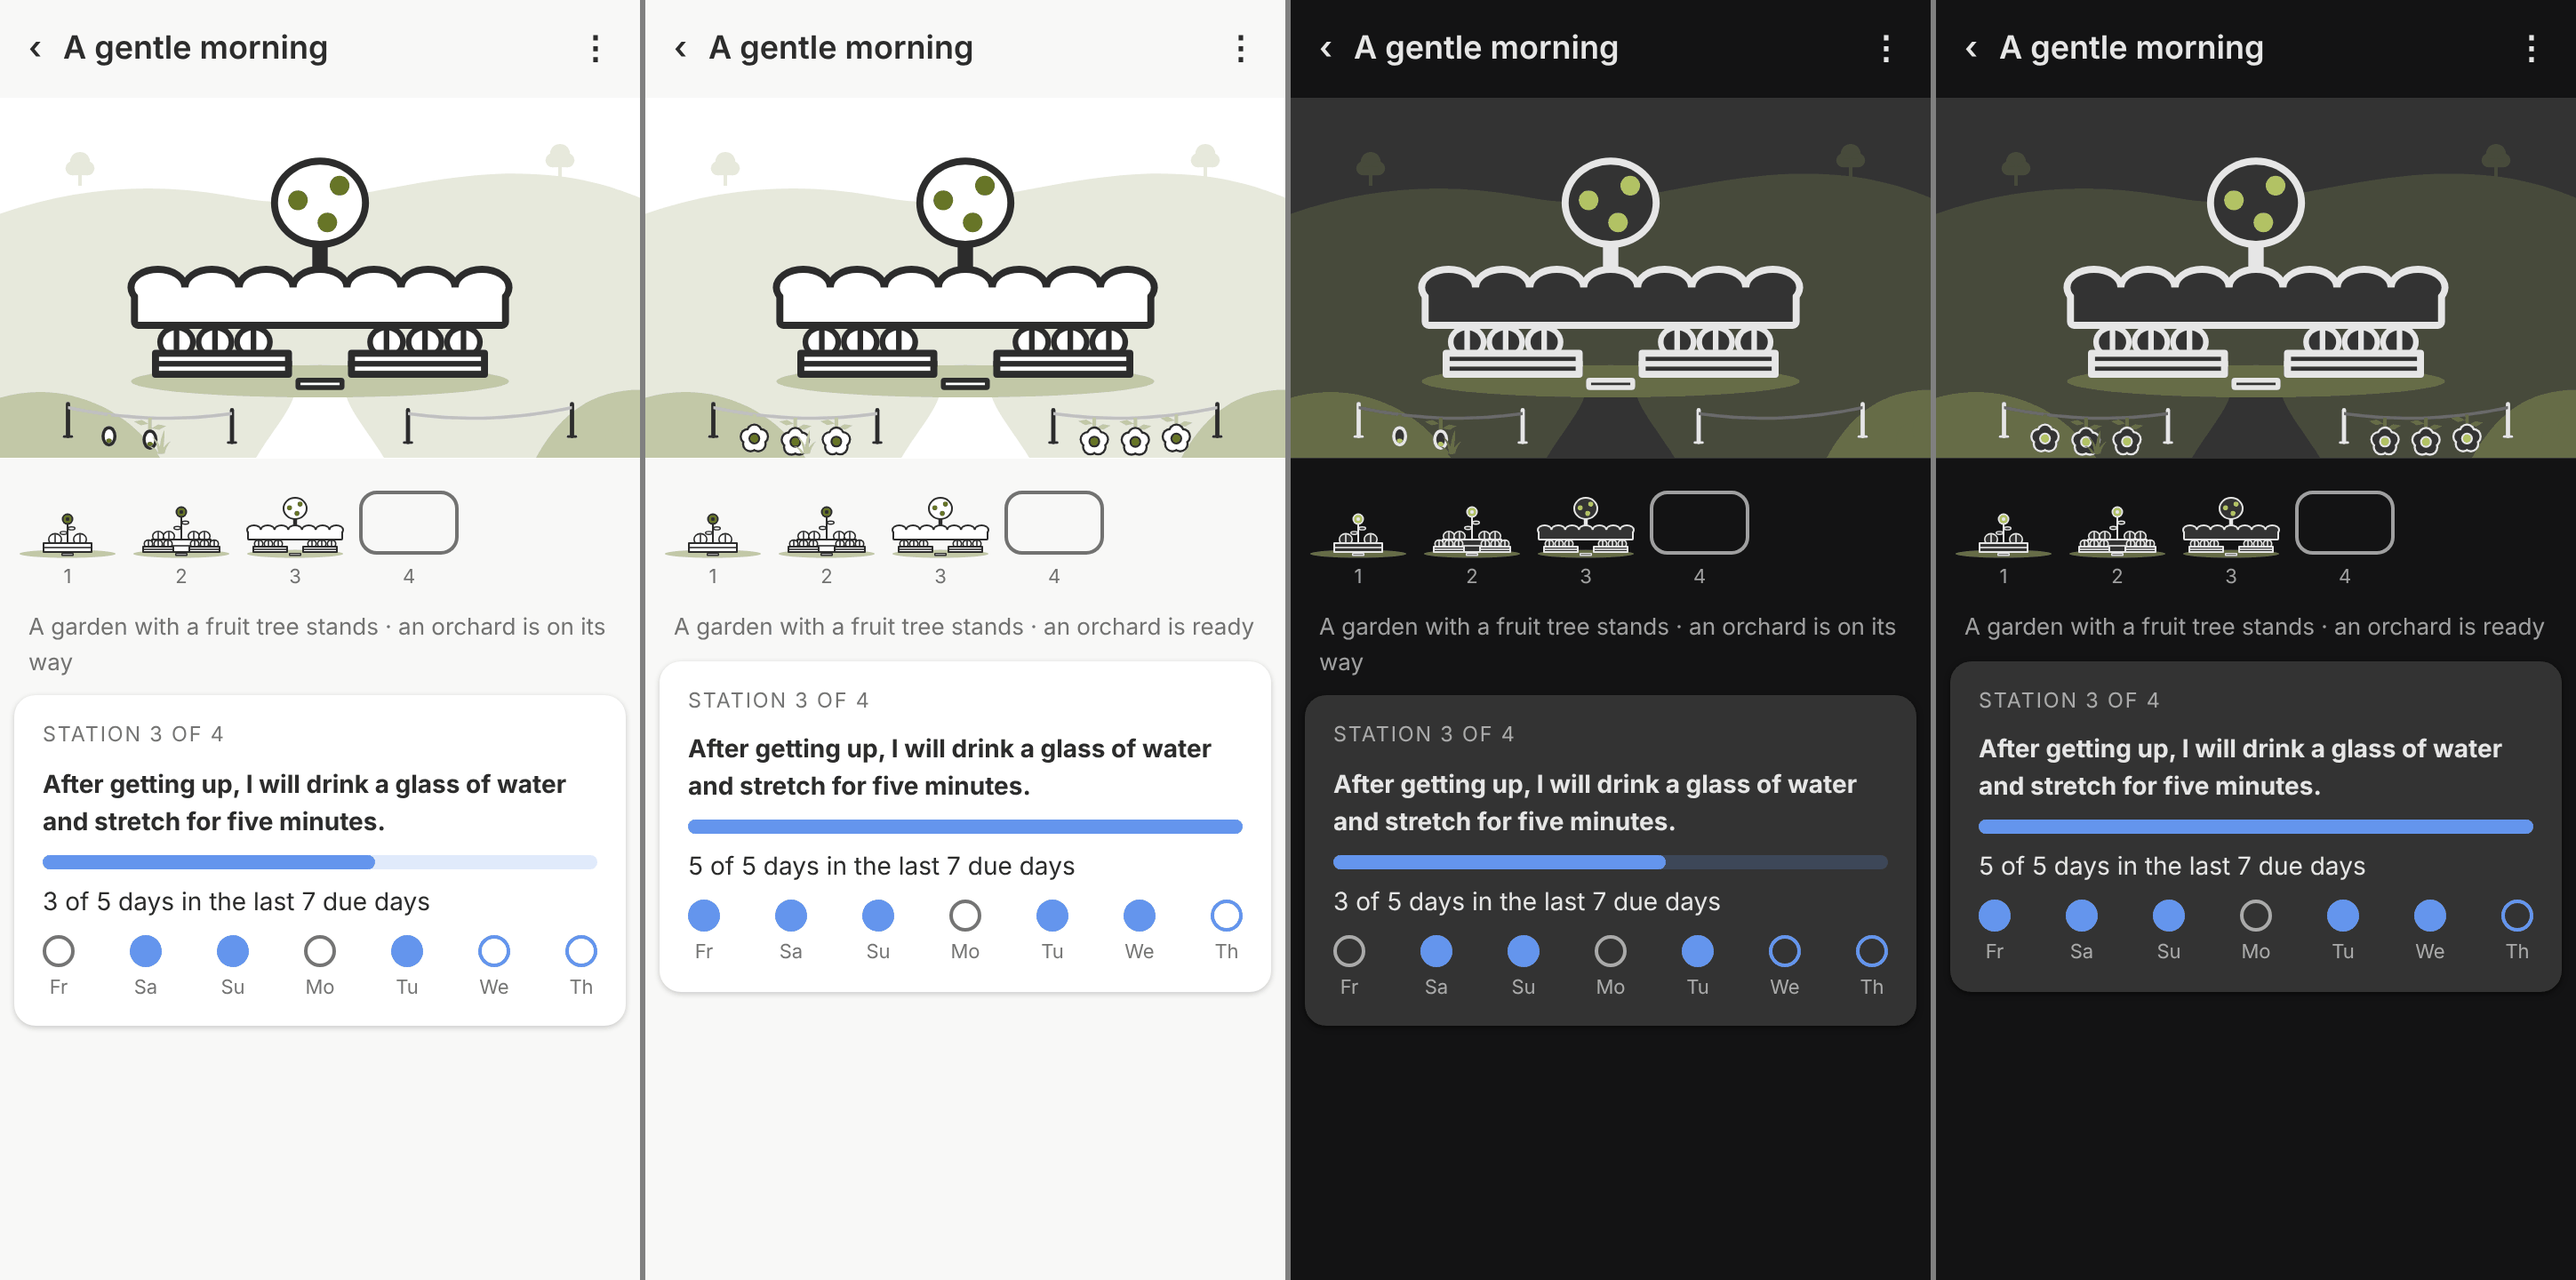
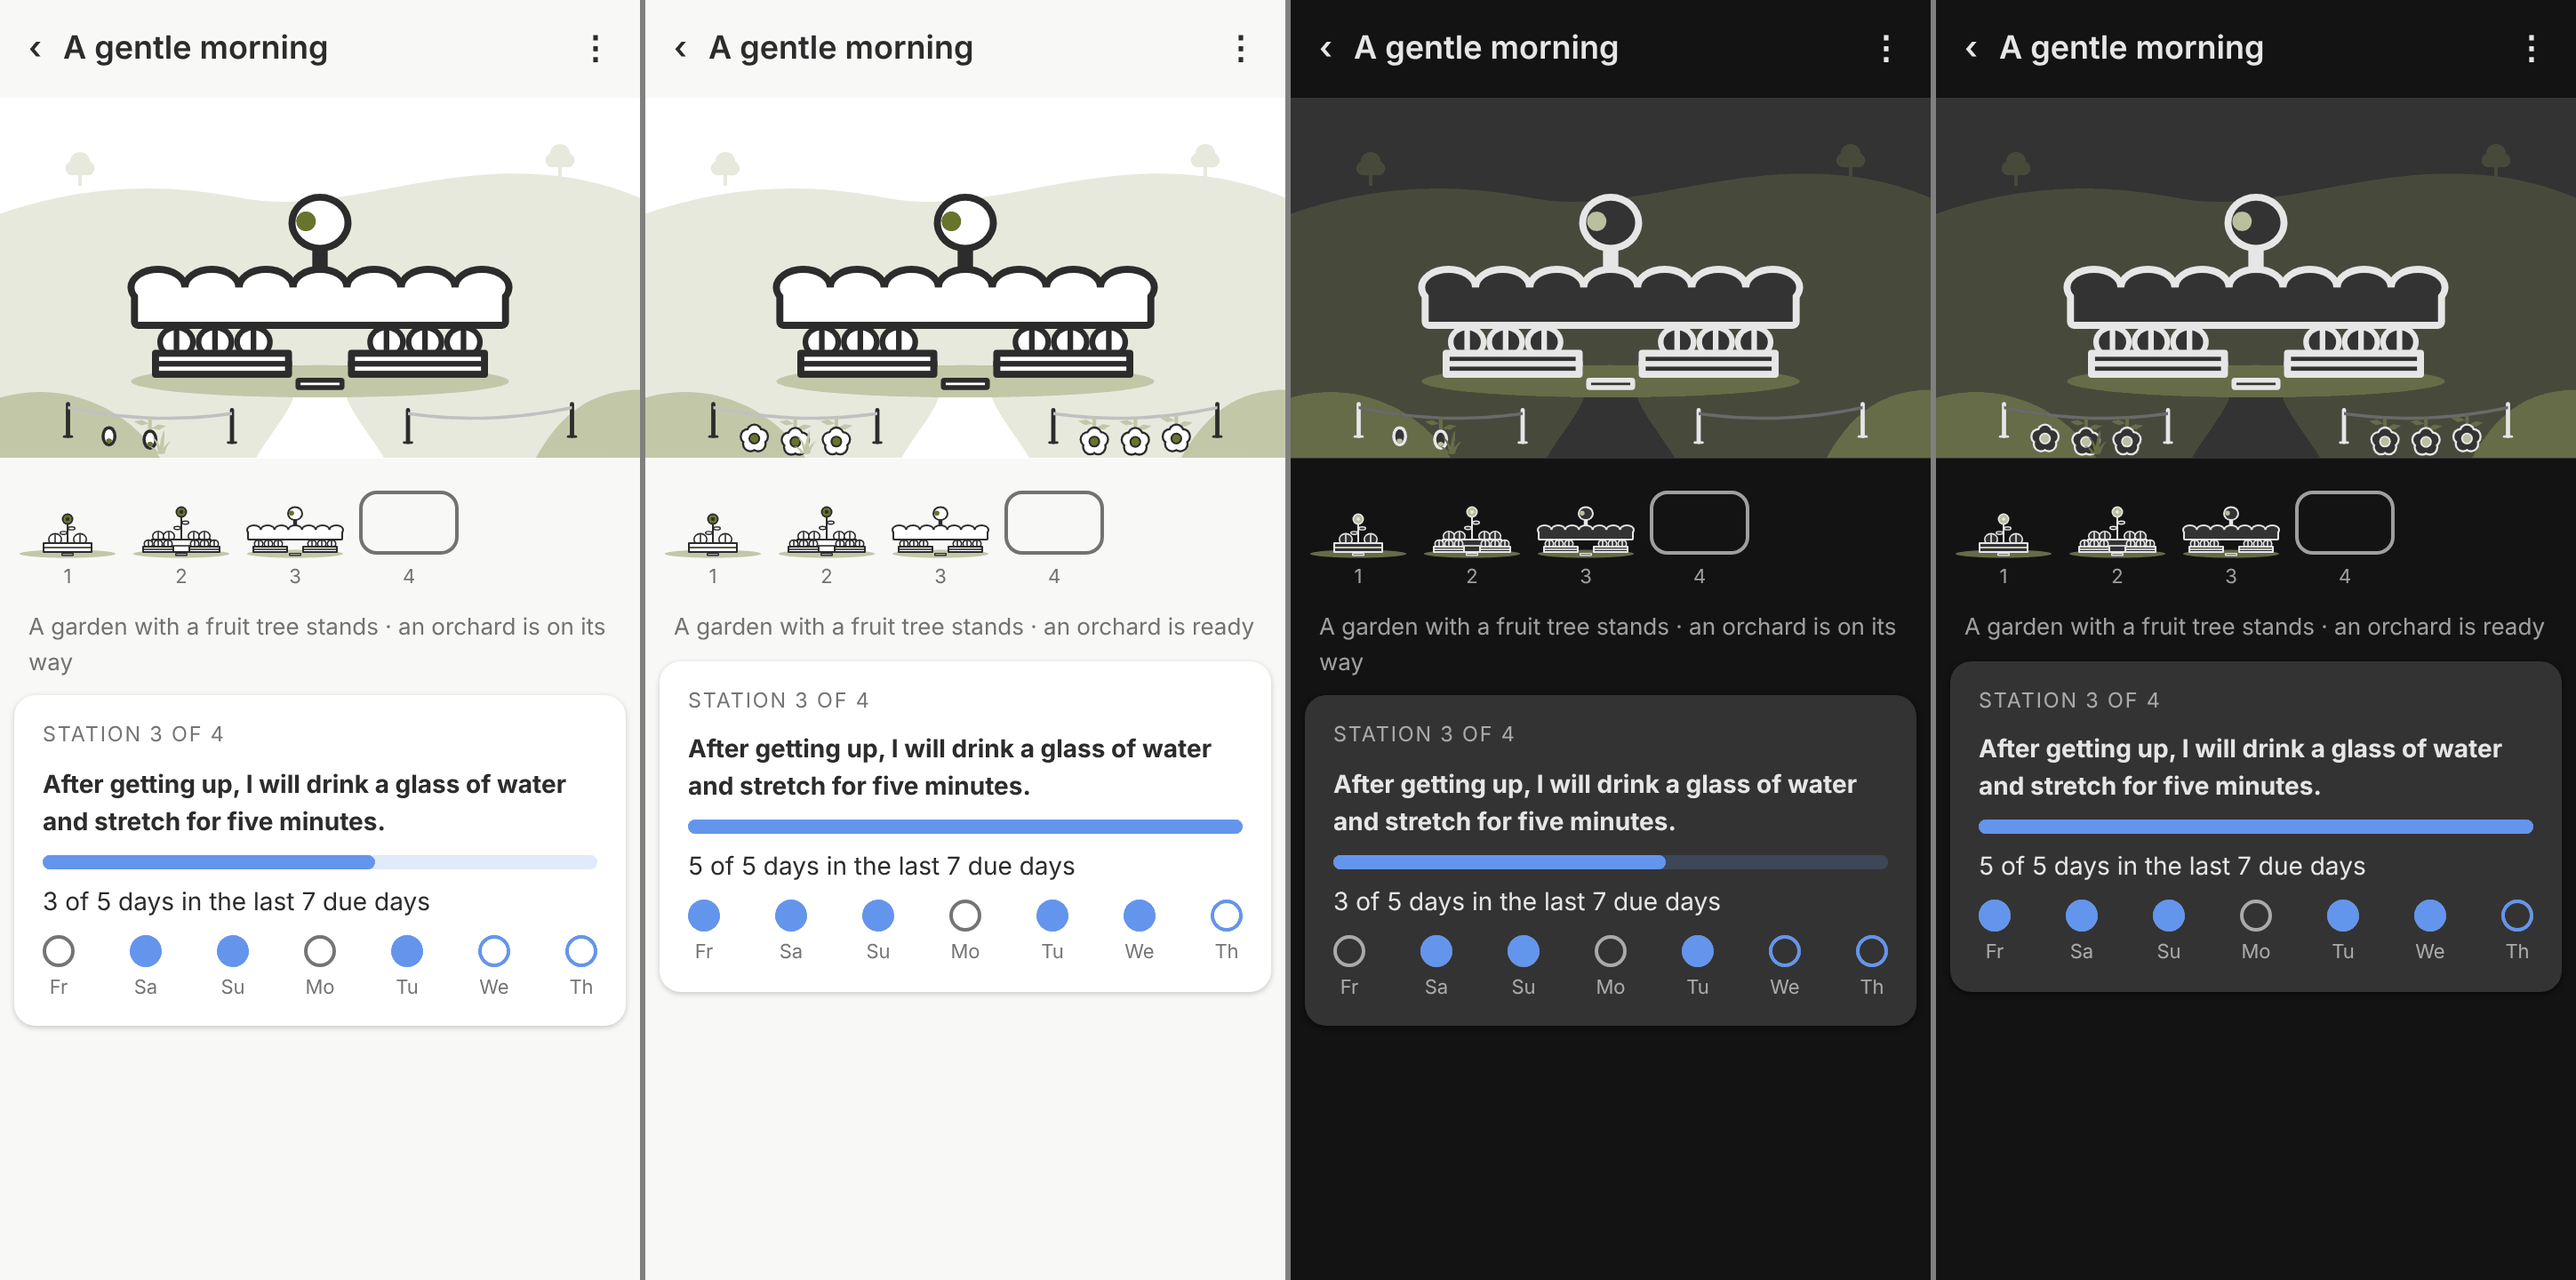
Art: Garden's trees grow with the garden (#135)
At the owner's word, what stands grows on: a tree is young with one
fruit when planted, grown with two a version later and old with three
after that, so the middle tree (planted in version 3) is the largest
in version 5 and each new pair starts young.

Claude-Session: https://claude.ai/code/session_019PsDpCdRYaLb9552fVk121

diff --git a/docs/log.md b/docs/log.md
@@ -2,7 +2,7 @@
 
 ## 2026-11-15
 
-- **Update** (#135, decided by the owner): Garden follows the history rule. The greenhouse is a different technique, so it is parked like the hand pump (rule 8 in [journey design](journey-design.md#builds-and-ladders-the-valley-42), comment on #114); version 4 is an orchard of five fruit trees behind the hedge, version 5 a walled garden: the orchard and beds inside a wall of stones at shoulder height, the trees and plants rising over it, its gate on the threshold stone (titles An orchard / Ein Obstgarten, A walled garden / Ein ummauerter Garten). The measured rules of #136 caught two faults on the way: a plant in the gate covered the threshold stone, and a lower wall made version 5 cover less than 5 % more than the orchard. The generator now also refuses a picture above 4 KB: a first orchard was 4,297 bytes and was written unnoticed ([decision](decisions/ladder-geometry.md)). Checked at 360 × 720 and in the row at 60 × 40, light and dark: a plant inside the gate read as a keyhole and was dropped. Then the owner saw the fruit trees' crowns floating like balls over the hedge and the wall: every tree now stands on a trunk, in a row of five, the trunks ending behind the hedge or wall. The owner then saw the trees jump (one in the middle, one on the right, suddenly five): they now grow from the middle, where the sunflower stood, one in version 3, three in version 4, five in version 5, each keeping its place.
+- **Update** (#135, decided by the owner): Garden follows the history rule. The greenhouse is a different technique, so it is parked like the hand pump (rule 8 in [journey design](journey-design.md#builds-and-ladders-the-valley-42), comment on #114); version 4 is an orchard of five fruit trees behind the hedge, version 5 a walled garden: the orchard and beds inside a wall of stones at shoulder height, the trees and plants rising over it, its gate on the threshold stone (titles An orchard / Ein Obstgarten, A walled garden / Ein ummauerter Garten). The measured rules of #136 caught two faults on the way: a plant in the gate covered the threshold stone, and a lower wall made version 5 cover less than 5 % more than the orchard. The generator now also refuses a picture above 4 KB: a first orchard was 4,297 bytes and was written unnoticed ([decision](decisions/ladder-geometry.md)). Checked at 360 × 720 and in the row at 60 × 40, light and dark: a plant inside the gate read as a keyhole and was dropped. Then the owner saw the fruit trees' crowns floating like balls over the hedge and the wall: every tree now stands on a trunk, in a row of five, the trunks ending behind the hedge or wall. The owner then saw the trees jump (one in the middle, one on the right, suddenly five): they now grow from the middle, where the sunflower stood, one in version 3, three in version 4, five in version 5, each keeping its place; at the owner's word they also grow with the garden: a tree is young with one fruit when planted, grown with two a version later, old with three after that, so the first tree is the largest.
 - **Decision** (owner): ladder pictures are built with a geometry library and measured ([decision](decisions/ladder-geometry.md)). `clipper2-ts` 2.0.1 (BSL-1.0, development only, [dependencies](dependencies.md)) builds outlines by offsetting, the well house's cut-out by subtraction and the stonework clipped to its wall (`scripts/ladder-geometry.mjs`); `scripts/ladder-checks.mjs` measures every version before `scripts/draw-ladders.mjs` writes (inside the box, at least 5 % more area than the one before, the threshold stone free), and `packages/engine/test/art-geometry.test.ts` measures the committed pictures. A pixel comparison at four times the build size showed no visible change except the well house's stones, which now stop exactly at the arch, and the checks' first findings, now fixed: Garden 5's hedge reached past the box, Well 1's front stones below the base line. Crossing (retired by #128) is only warned about: its plank bridge covers 1 % more than the log ([journey design](journey-design.md#builds-and-ladders-the-valley-42)).
 - **Creation** (#128, Well): the ladder Well, drawn by `scripts/draw-ladders.mjs`: a water hole with its heap of earth and spade, a well sweep over a low stone curb, a round well with a winch, the well under a roof, a stone well house with the well under its arch; each whole and larger than the one before, on Home's threshold stone. Water in the builds is `tint-strong`; the accent is the bucket. Its land setting `setting-green` (a village green: a far ridge with roofs, no water) shares Home's path and marker posts; default marker lanterns, default hue water blue; titles in English and German. Checked at 360 × 720 and in the row at 60 × 40, light and dark: the well wall read as a crate and now has a round rim around its water. The fifth version was first a fountain; the owner rejected it (a fountain is another use than a well), so it is a well house: a closed house with a door read as a second Home house and a low arch as a garage, so its arch is tall and wide; the owner then saw the well standing in front of the house, so it is smaller, set back on the floor of a shaded arch, and the front wall is drawn over it with the arch cut out; then the owner found the stones no longer read as stones, so every stone wall (the well in versions 3 to 5, the well house's whole front wall, whose courses stop at the arch's curve) is drawn as courses of stones with staggered joints (`masonry`); last, the owner found the line broken (versions 1 and 2 were a spring and a trough under a pump, and a pump comes after a dug well): the ladder now follows how water is drawn from a dug well, from a water hole to a well sweep, a winch, a roof and a well house. **Decision** (owner): a ladder follows history step by step (rule 8 in [journey design](journey-design.md#builds-and-ladders-the-valley-42)); a new technique joining what stands (a hand pump at the well house) and several things at one place stay parked (comment on #114) ([journey design](journey-design.md#builds-and-ladders-the-valley-42), `docs/screenshots/ladder-well*.png`). Lookout follows after the owner's judgement.
 - **Creation** (#128, Garden): the ladder Garden, drawn by `scripts/draw-ladders.mjs`: a garden bed with a sunflower, a garden in rows, a garden with a hedge and a fruit tree, a greenhouse, an orchard around the greenhouse; each whole and larger than the one before, on the same threshold stone as Home. Its land setting `setting-field` (open fields, low hills, no water) shares Home's path to the threshold and marker posts (`sides`); default marker flowers, default hue moss; titles in English and German. The engine's list of ladders reads `garden.ladder.json` (no rule changed). Checked at 360 × 720 and in the row of versions at 60 × 40, light and dark, over three rounds: the bean poles were dropped as noise, the hedge became a row of round bushes instead of a box, plants rise further above their beds, the greenhouse stands on a low wall that hides its plants' feet, and the trees of the greenhouse and the orchard stand behind the hedge so their trunks do not read as posts ([journey design](journey-design.md#builds-and-ladders-the-valley-42), `docs/screenshots/ladder-garden*.png`). Well and Lookout follow after the owner's judgement.

diff --git a/docs/journey-design.md b/docs/journey-design.md
@@ -174,7 +174,8 @@ journey):
    sunflower stood, an orchard of three trees behind the hedge, then five
    inside a wall of stones at shoulder height with its gate on the
    threshold (#135); the trees grow from the middle, and what stands keeps
-   its place. Well
+   its place and grows on: a tree is young with one fruit when planted,
+   grown with two a version later, old with three after that. Well
    follows how water is drawn: a water hole dug down to the water (its
    earth heaped behind with the spade in it), a well sweep (a beam on a
    forked post with a stone and the bucket on a pole) over a low stone
